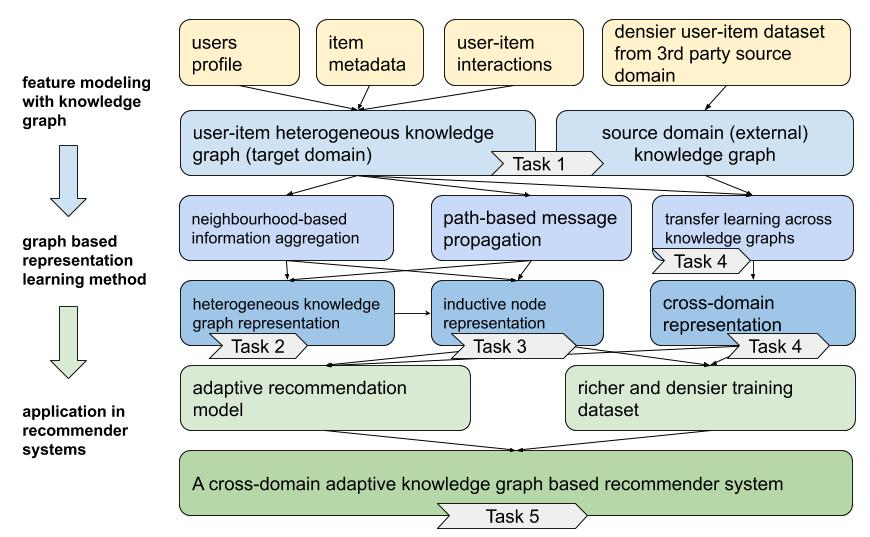
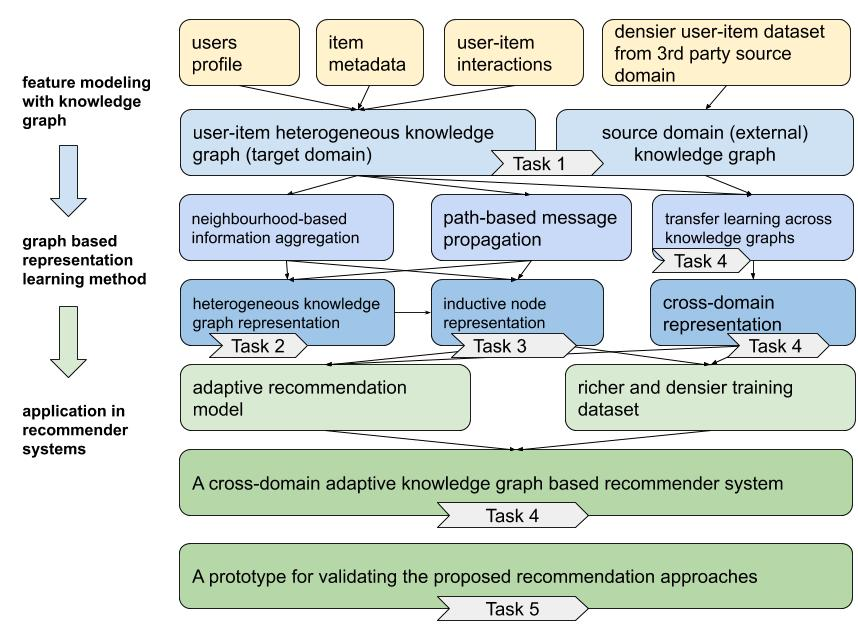
update case study

diff --git a/_5_methodology_tasks.tex b/_5_methodology_tasks.tex
@@ -26,19 +26,19 @@ The rich semantic heterogeneous graph structure enables the new data coming to e
 Intuitively, the node-to-node distance and neighborhood structural comparisons can be both used in measuring user/item similarity for existing or new nodes. In task 3, we would further explore this property to overcome cold start problems and improve recommendation model adaptiveness.
 
 
-\subsection{Task 2: Build a heterogeneous knowledge graph based method to effectively include non-interacted items}
+\subsection{Task 2: Build a knowledge graph based method to ease limitations in recommendation model training and inference}
 
-Most of the recommender systems exclude non-interacted data during training, which limits model prediction ability. In this task, in addition to using direct interactions, we adopt experts knowledge into representation modelling process by defining meta-path connections between nodes. As a result, the model can establish indirect user-item connections via the heterogeneous knowledge graph. For example, \textit{User - Movie} interaction, can be extend to \textit{User - Movie1 - Actor - Movie2}. Consequently, the recommendation model can be benefited from the denser connections inside the heterogeneous graph. One added benefit of such meta-path approach is reducing bias, which happens commonly in the early stage of recommender systems. i.e. When data is not sufficiently available to represent a complete user/item distribution.
+Most of the recommender systems exclude non-interacted data from training, which limits model prediction ability. In this task, in addition to using direct interactions, we adopt experts knowledge into representation modelling process by defining meta-path connections between nodes. As a result, the model can establish indirect user-item connections via the heterogeneous knowledge graph. For example, \textit{User - Movie} interaction, can be extend to \textit{User - Movie1 - Actor - Movie2}. Consequently, the recommendation model can be benefited from the denser connections inside the heterogeneous graph. One added benefit of such meta-path approach is reducing bias, which happens commonly in the early stage of recommender systems. i.e. When data is not sufficiently available to represent a complete user/item distribution.
 
 On the other hand, incorporating the heterogeneous knowledge graph into a recommender system is not as straight forward as processing tabular dataset. Subsequently, this task transforms node into latent representation through node neighborhood propagation. Collectively, high-order connectivity and node neighborhood structure can be included as part of the representation learning process. So that, side information such as user demographics, item feature representation and node structural information can be transformed into feature vectors holistically by the representative model.
 
-Lastly, we propose a recommendation framework that incorporates the above representation approach. By leveraging factorization machine and path-based similarity within the heterogeneous knowledge graph, both interacted and non-interacted user/item entities can now participate in recommender model training and used for the recommendation predictions. as illustrated in Fig. \ref{fig:meta_task}.
-
 \begin{figure*}[!ht]
     \centering
-    \includegraphics[width=0.95\textwidth]{figs/hkg.png}
+    \includegraphics[width=0.8\textwidth]{figs/hkg.png}
     \caption{heterogeneous knowledge graph based recommendation model}\label{fig:meta_task}
 \end{figure*}
+
+Lastly, we propose a recommendation framework that incorporates the above representation approach. By leveraging factorization machine and embedding similarity within the heterogeneous knowledge graph, both interacted and non-interacted user/item entities can participate in recommendation model training and used for the predictions. as illustrated in Fig. \ref{fig:meta_task}.
 
 \subsection{Task 3: Build a adaptive recommendation model via knowledge graph embedding}
 
@@ -94,7 +94,7 @@ Consequently, the trained model entity representation would tailored toward the 
 Experiment and evaluation will be conducted on multiple data conditions, such as sparse dataset, cold stat, zero interaction settings to compare and measure the effectiveness of proposed methods.
 
 
-\subsection{Task 4: Develop a cross-domains recommender systems based on heterogeneous knowledge graph}
+\subsection{Task 4: Develop a cross-domains adaptive recommender systems with heterogeneous knowledge graph}
 
 \subsubsection*{Step 1: Develop a knowledge transfer method to improve target domain data sparsity by leveraging source knowledge graph}
 
@@ -134,7 +134,11 @@ Finally we adjust our cross-domain recommendation objective to as following:
 
 \subsection{Task 5: Build a prototype for validating the proposed recommendation approaches}
 
-The research will be verified from two aspects:
-First, verify knowledge graph based recommendation approach using public datasets, such as DBLP Citation Networks, MovieLens data sets. Similarity measure as well as adaptiveness are the core parts of this research, each aspects will be verified accordingly.
-Second, the recommendation approach will be used in a real world data sets for solving industry problems. Such as, tourism , job posting and real estate listings where suffers from constant cold start problems. Experiments will be used to further test the effectiveness of the proposed method.
+The research will be first verify knowledge graph based recommendation approach in single domain using public datasets to test inductive learning and recommendation date adaptiveness.
 
+Secondly, A real-world case studies will be designed based on real estate property recommendation. The property recommender system constantly faces cold start challenge, which is due to the uniqueness sales circle of residential house. 
+In our case study we use dense historical dataset as source domain to help recommendation tasks on current active listings as the target domain.
+Even though we will only have partially overlapped user and items, many common meta-data is shared across domains.
+Thus, connections can be bridged between two knowledge graphs, ultimately facility the proposed transfer learning method.
+
+It is worth noting that same approach can also be applied in job recommendation tasks and others, which faces the similar cold start challenge.

diff --git a/_2_questions_objectives_outcome.tex b/_2_questions_objectives_outcome.tex
@@ -31,7 +31,7 @@ In this objective, by leveraging the heterogeneous graph, user-item interactions
 
 
 \bigskip
-\textbf{Objective 2:} To develop an adaptive strategy for improving recommender systems’ adaptiveness on new and unseen data with knowledge graph embedding. (Aim to answer question 2)
+\textbf{Objective 2:} To develop an adaptive strategy for improving recommender systems adaptiveness on new and unseen data with knowledge graph embedding. (Aim to answer question 2)
 
 Commonly, recommender systems use user/item latent feature for prediction, which were trained on static datasets. For new item or user that appeared post training, their latent feature would not be known until being included in the later re-training. It is known as cold start problem.
 
